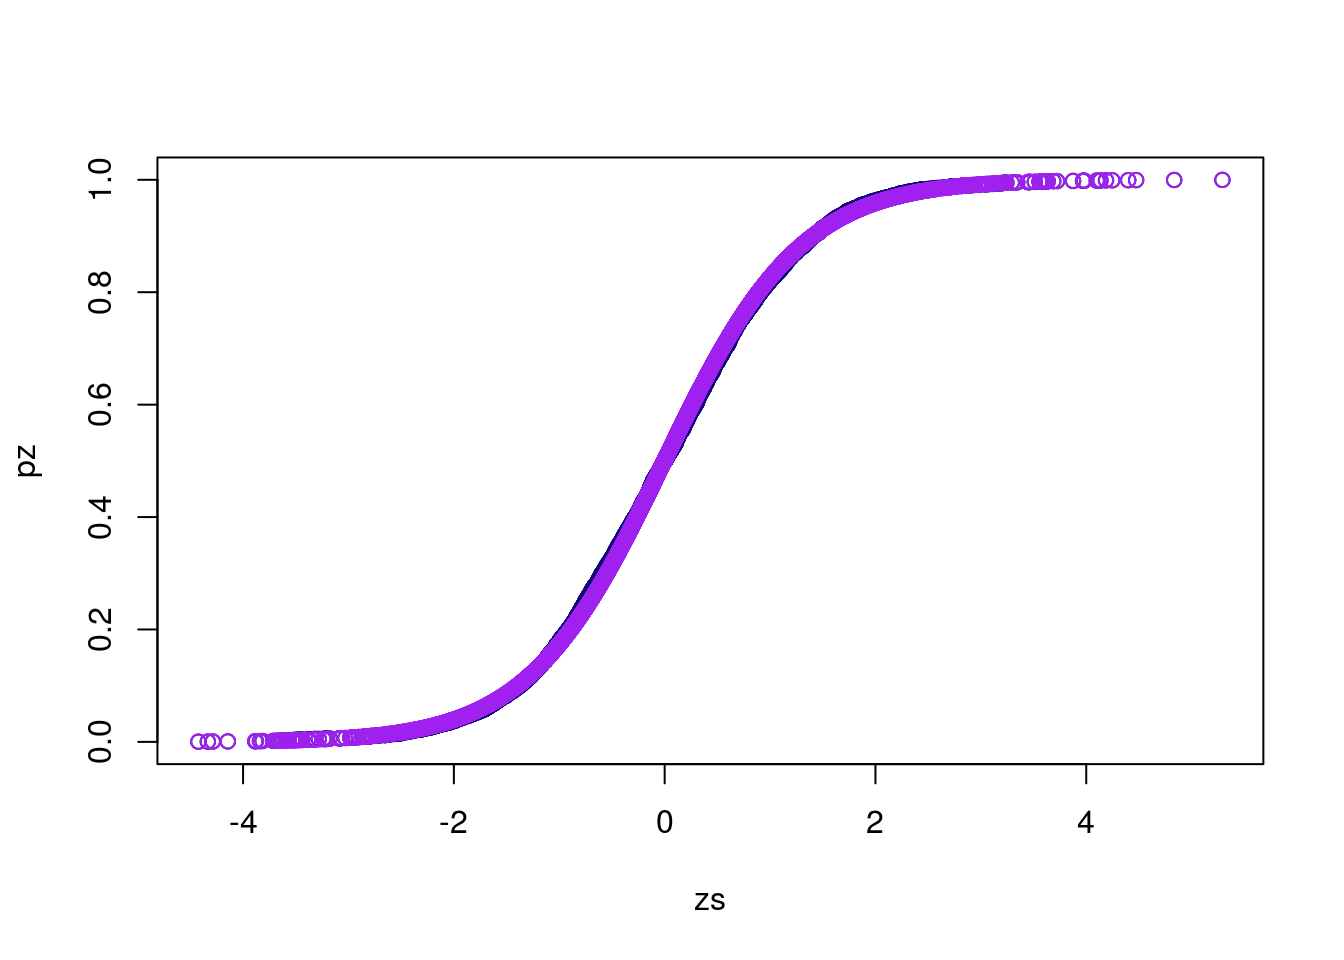
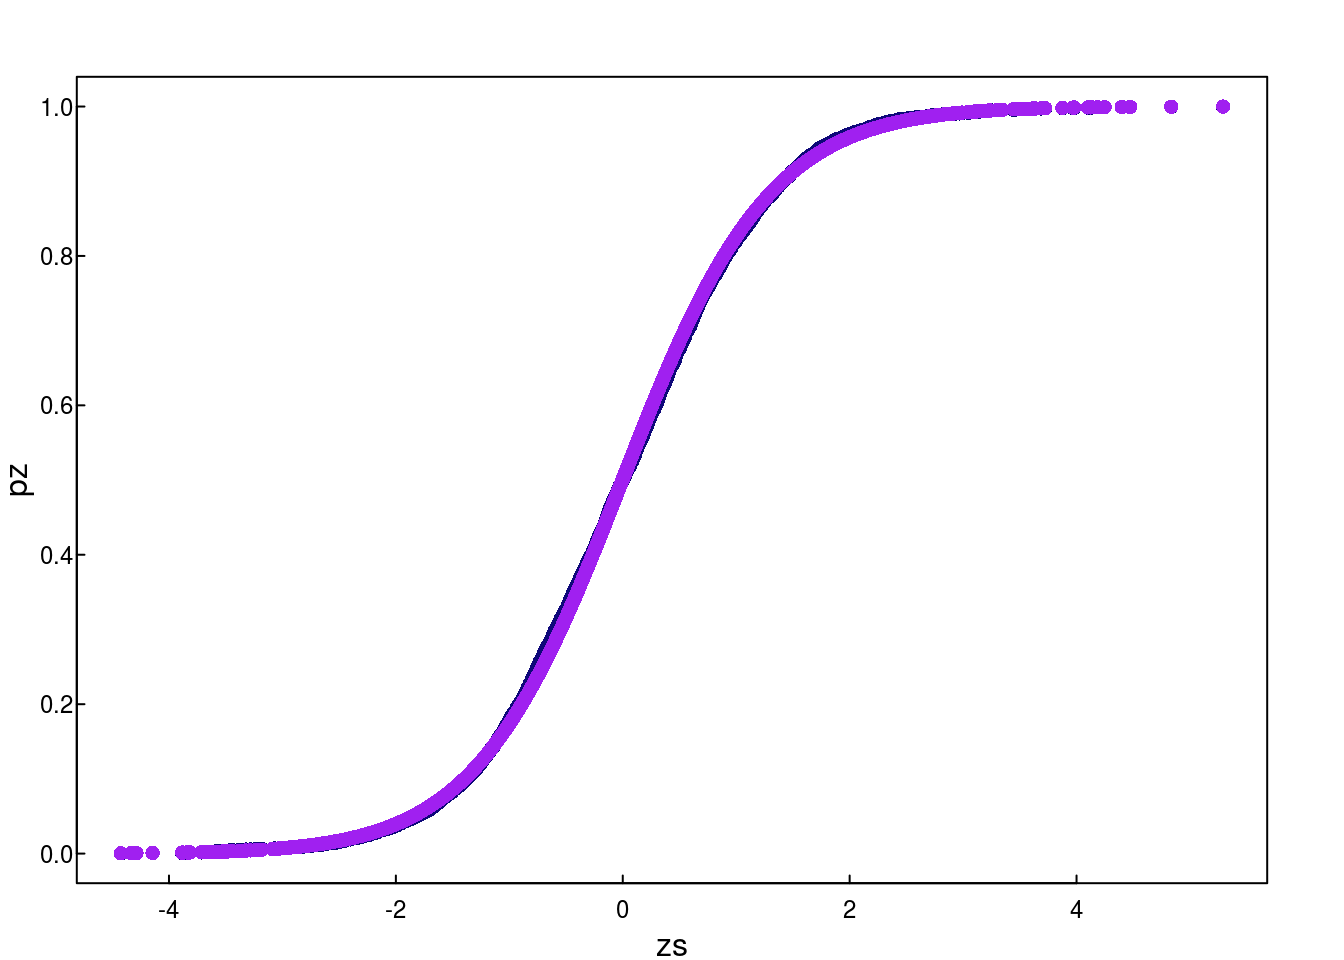
five-one-3

diff --git a/2018-07-17-lsi-5-1.html b/2018-07-17-lsi-5-1.html
@@ -238,13 +238,15 @@ d_zero_alternative &lt;- function(x, a = .7, shape = 2, rate = 3){
   1*(abs(x)-a &gt; 0) * dgamma(abs(x)-a, shape, rate)/2
 }
 
+plotstyle(style = upright)
 r_zero_alternative(1e5) %&gt;% hist(breaks = 100, ylab = &quot;&quot;, main = &quot;&quot;, freq = FALSE)
 abline(v = c(-1,1)*.7, col = &quot;grey&quot;)
 box()
 curve(d_zero_alternative, add = TRUE, lwd = 3, col = &quot;#19077860&quot;)</code></pre>
 <p><img src="2018-07-17-lsi-5-1_files/figure-html/unnamed-chunk-3-1.png" width="672" /></p>
 <p>An example of a draw from the mixture distribution (with <span class="math inline">\(\pi_0 = .95\)</span>) is:</p>
-<pre class="r"><code>N &lt;- 1e5
+<pre class="r"><code>plotstyle(style = upright)
+N &lt;- 1e5
 g &lt;- rbinom(N,1,.95)
 z &lt;- g*rnorm(N) + (1-g)*r_zero_alternative(N,.7,2,3)
 z %&gt;% hist(breaks = 100, main = &quot;&quot;, ylab = &quot;&quot;)
@@ -275,6 +277,7 @@ P(-a\leq Z \leq a) &amp;= \sum_{i=0}^1 P(G = i)\,P(-a\leq Z \leq a | G = i)\\
 <pre class="r"><code>as &lt;- c(.1, .2, .3, .4, .5, .6, .7, .8, .9)
 pi_hat &lt;- estimate_pi(z, as)
 
+plotstyle(style = upright)
 par(mar = c(2,2,4,4))
 plot(as, pi_hat, type = &quot;b&quot;, xlab = &quot;a&quot;, ylab = &quot;&quot;, ylim = c(.94,.96))
 title(main = &quot;Estimated π in simulated data&quot;, line = 3)
@@ -288,6 +291,8 @@ axis(4,.95,&quot;True π&quot;)</code></pre>
 <h3>Estimation of <span class="math inline">\(\pi_0\)</span> in the prostate data</h3>
 <pre class="r"><code>pis &lt;- estimate_pi(zs, as)
 
+plotstyle(style = upright)
+par(mar = c(2,2,4,4))
 plot(as, pis, ylab = &quot;&quot;, xlab = &quot;&quot;, type = &quot;b&quot;)
 title(main = &quot;Estimates of π as a function of a&quot;, xlab = &quot;a&quot;)
 axis(3,median(as), &quot;True a?&quot;, tick = FALSE)
@@ -309,6 +314,8 @@ load(con); close(con)
 as &lt;- seq(0.2, 0.8,by = 0.005)
 pis &lt;- estimate_pi(DTIdata[,4], as)
 
+plotstyle(style = upright)
+par(mar = c(2,2,4,4))
 plot(as, pis, ylab = &quot;&quot;, xlab = &quot;&quot;, type = &quot;b&quot;, ylim = c(min(pis), 0.94))
 title(main = &quot;Estimates of π as a function of a&quot;, xlab = &quot;a&quot;)
 axis(3,median(as), &quot;True a?&quot;, tick = FALSE)
@@ -329,6 +336,8 @@ up &lt;- labs %&gt;% sub(&quot;[^,]*,([^]]*)\\]&quot;, &quot;\\1&quot;, .) %&gt;
 mp &lt;- .5*lo + .5*up
 cs &lt;- table(ws)
 
+plotstyle(style = upright)
+par(mar = c(2,2,2,2))
 hist(zs, breaks = 90, col = &quot;#ad000070&quot;,border = &quot;white&quot;)
 points(mp, cs, col = &quot;#0E0879&quot;)
 
@@ -343,6 +352,9 @@ box()</code></pre>
 <h2>ECDF methods for esimating f(z)</h2>
 <pre class="r"><code>suppressMessages(require(splines))
 pz &lt;- ecdf(c(-10, zs, 10))(zs)
+
+plotstyle(style = upright)
+par(mar = c(2,2,2,2))
 plot(zs, pz, col = &quot;#0E0879&quot;)
 
 logodds &lt;- function(x) log(x/(1-x))

diff --git a/index.html b/index.html
@@ -198,10 +198,10 @@ $(document).ready(function () {
 
 
 <ul>
-<li><a href="2018-05-09-notation-key.html">“Key”</a></li>
+<li><a href="2018-05-09-notation-key.html">Key</a></li>
 <li><a href="2018-05-10-lsi-1-1.html">LSI Section 1.1</a></li>
 <li><a href="2018-05-11-lsi-1-2.html">LSI section 1.2</a></li>
-<li><a href="2018-07-10-risk-diff-js.html">“Comparison of risk between estimators”</a></li>
+<li><a href="2018-07-10-risk-diff-js.html">Comparison of risk between estimators</a></li>
 <li><a href="2018-07-17-lsi-5-1.html">LSI section 5.1</a></li>
 </ul>
 
